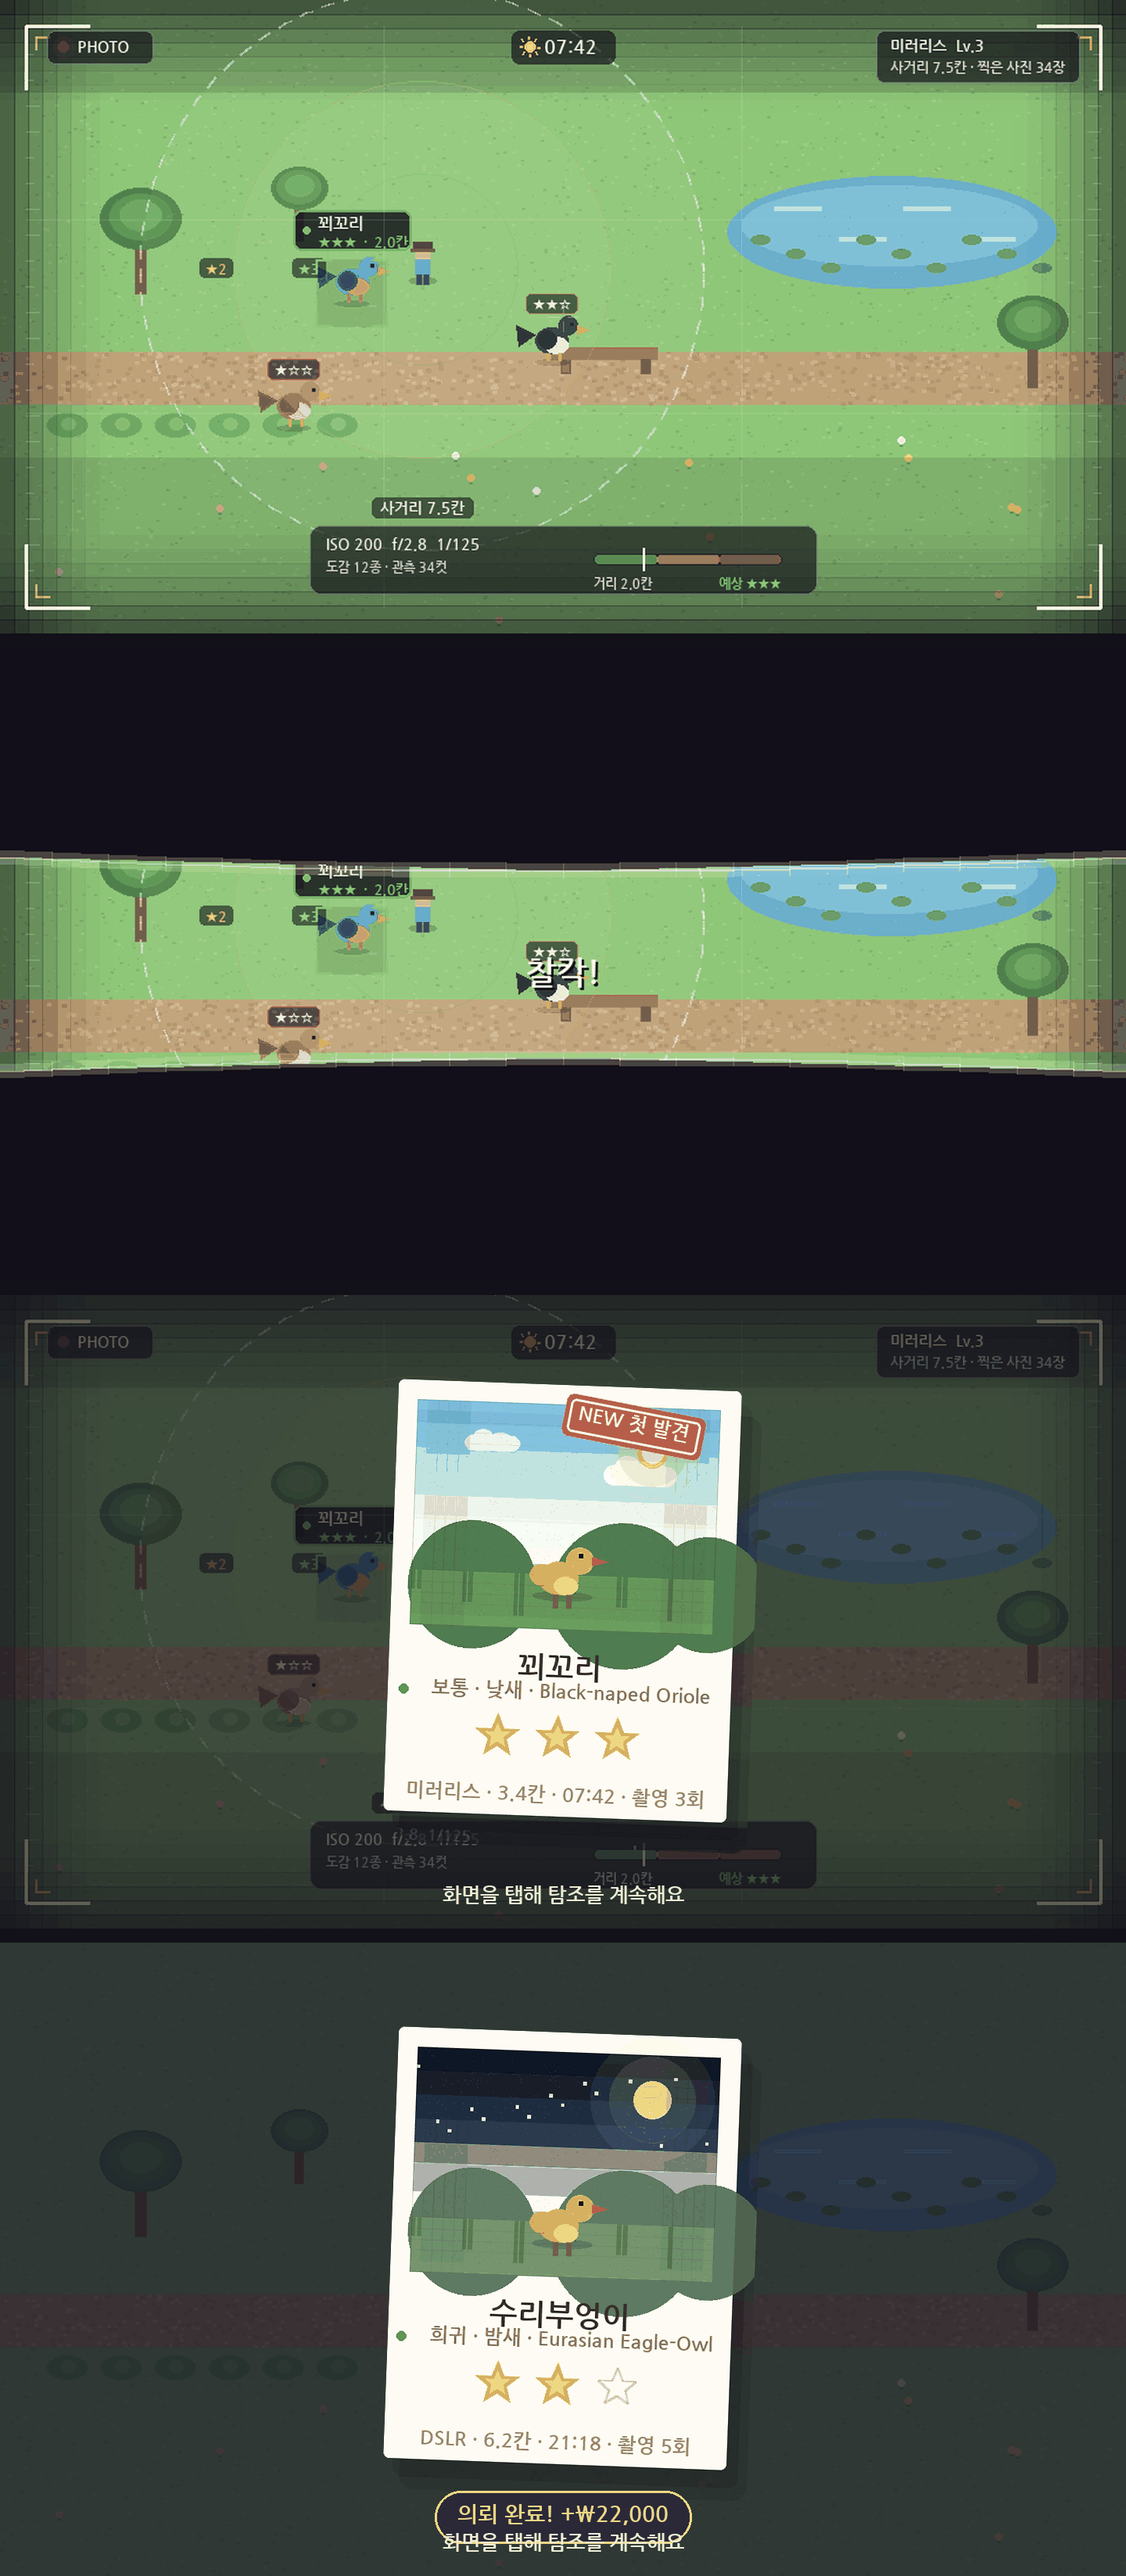
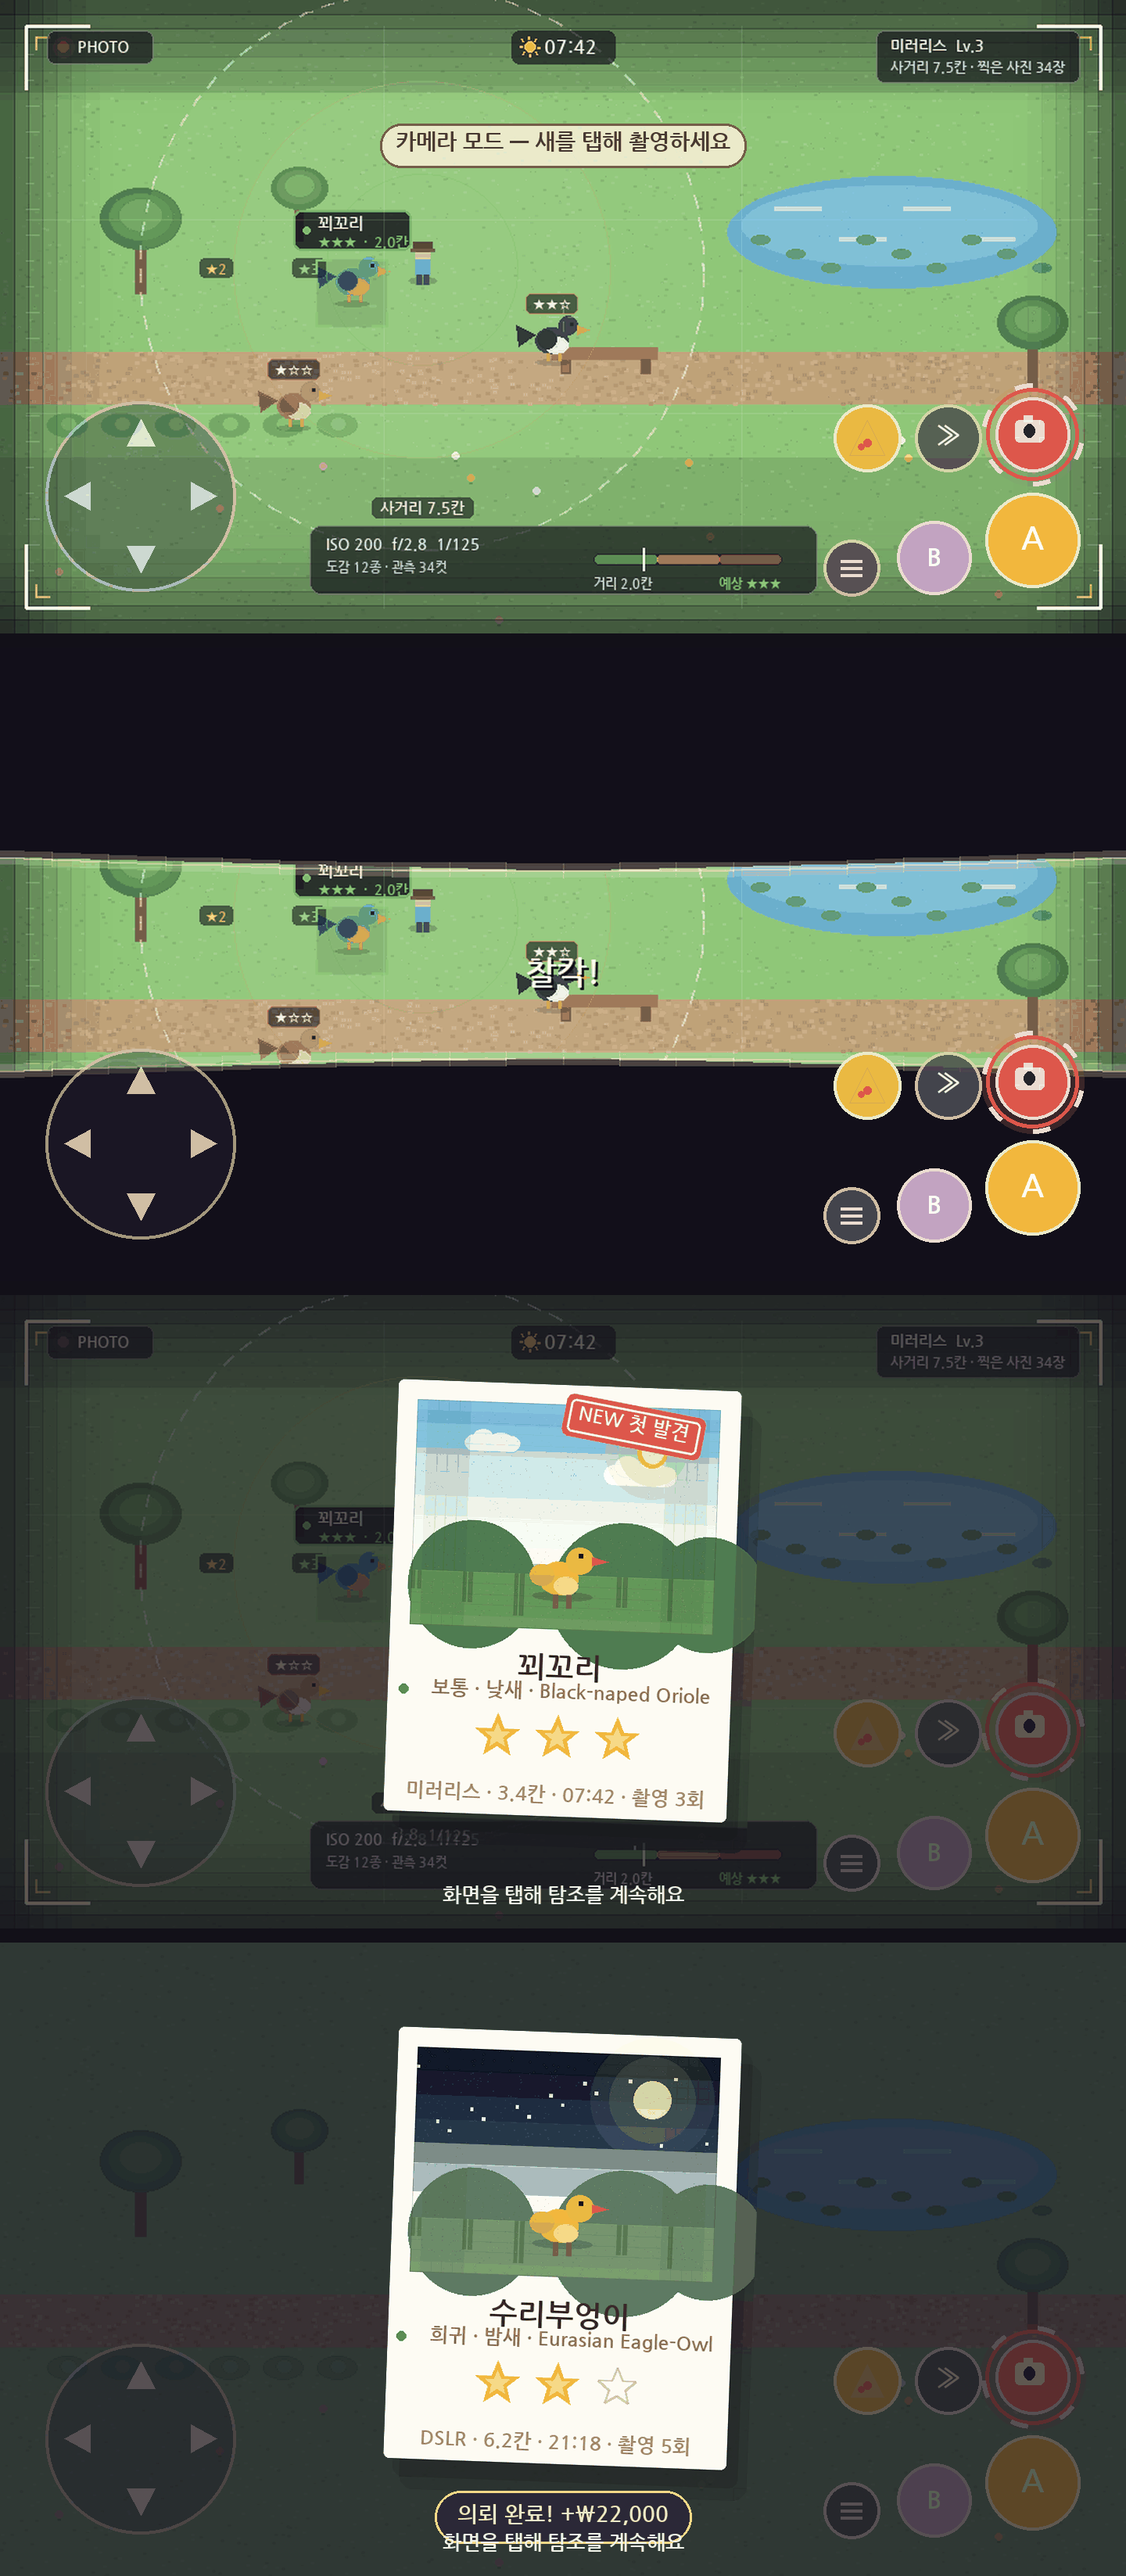
polish(탐조): 카메라 버튼 붉은 펄스 링 + 회전 아크 복원, 프리뷰에 HUD 컨트롤 반영
- Hud.drawControls: 카메라 모드일 때 촬영 버튼에 은은한 붉은 글로우 + 회전하는 점선 아크
- tools/preview_viewfinder.py: 실제 HUD(D패드/A·B/달리기/간식/메뉴/카메라)와 토스트까지
  같은 dp 좌표로 렌더 → docs/viewfinder_preview.png 갱신
- 프리뷰 이미지 256색 양자화로 용량 1.3MB → 0.4MB

diff --git a/app/src/main/java/com/pizzaandbird/game/Hud.kt b/app/src/main/java/com/pizzaandbird/game/Hud.kt
@@ -345,6 +345,26 @@ class Hud(private val game: Game) {
         val ch = cam.height * (dp(20f) / 16f)
         c.drawBitmap(cam, null, RectF(camBCx - cw / 2, camBCy - ch / 2, camBCx + cw / 2, camBCy + ch / 2), game.assets.sprPaint)
 
+        // 카메라 모드: 촬영 중임을 알리는 붉은 펄스 링 + 회전하는 점선 아크
+        if (photoModeHint) {
+            val pulse = 0.5f + 0.5f * sin(game.time * 3.4f)
+            stroke.color = Color.argb(46, 226, 87, 76)
+            stroke.strokeWidth = dp(9f)
+            c.drawCircle(camBCx, camBCy, camBR + dp(5f) + dp(4f) * pulse, stroke)
+            stroke.color = Color.argb((165 + 70 * pulse).toInt().coerceIn(0, 255), 226, 87, 76)
+            stroke.strokeWidth = dp(2.6f)
+            c.drawCircle(camBCx, camBCy, camBR + dp(3f) + dp(3f) * pulse, stroke)
+
+            val arcR = camBR + dp(8f)
+            val arcRect = RectF(camBCx - arcR, camBCy - arcR, camBCx + arcR, camBCy + arcR)
+            linePaint.color = Color.argb(225, 255, 232, 220)
+            linePaint.strokeWidth = dp(3f)
+            val baseDeg = (game.time * 96f) % 360f
+            for (i in 0 until 6) {
+                c.drawArc(arcRect, baseDeg + i * 60f, 20f, false, linePaint)
+            }
+        }
+
         // 달리기 (») — 누르고 있으면 강조
         val running = game.input.isRun
         drawButton(

diff --git a/tools/preview_viewfinder.py b/tools/preview_viewfinder.py
@@ -147,6 +147,103 @@ def draw_player(d, cx, cy):
     d.rectangle([cx - 10, cy - 12, cx + 10, cy - 10], fill=(0x6B, 0x4A, 0x33))
 
 
+
+# ---------------------------------------------------------------------------
+# HUD 컨트롤 (Hud.kt 와 같은 dp 좌표) — 카메라 모드에선 스탯/미니맵은 숨겨진다
+# ---------------------------------------------------------------------------
+
+def draw_hud_controls(d, W, H, density, photo_mode=True, clock=2.6, toast=None, active=()):
+    dp = lambda v: v * density
+
+    # D패드
+    r = dp(54)
+    cx, cy = dp(26) + r, H - dp(24) - r
+    d.ellipse([cx - r, cy - r, cx + r, cy + r], fill=(40, 36, 54, 88))
+    d.ellipse([cx - r, cy - r, cx + r, cy + r], outline=(248, 239, 220, 150), width=max(1, int(dp(2))))
+    tri = dp(10)
+    inn = r * 0.62
+    for (dx, dy) in ((0, -1), (0, 1), (-1, 0), (1, 0)):
+        px, py = -dy, dx
+        pts = [(cx + dx * inn + dx * tri, cy + dy * inn + dy * tri),
+               (cx + dx * inn - dx * tri * 0.5 + px * tri * 0.8, cy + dy * inn - dy * tri * 0.5 + py * tri * 0.8),
+               (cx + dx * inn - dx * tri * 0.5 - px * tri * 0.8, cy + dy * inn - dy * tri * 0.5 - py * tri * 0.8)]
+        d.polygon(pts, fill=(248, 239, 220, 205))
+
+    a_r = dp(27)
+    a_cx, a_cy = W - dp(26) - a_r, H - dp(26) - a_r
+    b_r = dp(21)
+    b_cx, b_cy = a_cx - a_r - dp(8) - b_r, H - dp(22) - b_r
+    cam_r = dp(21)
+    cam_cx, cam_cy = a_cx, a_cy - a_r - dp(12) - cam_r
+    run_r = dp(19)
+    run_cx, run_cy = cam_cx - cam_r - dp(8) - run_r, cam_cy + dp(2)
+    eat_r = dp(19)
+    eat_cx, eat_cy = run_cx - run_r - dp(8) - eat_r, cam_cy + dp(2)
+    menu_r = dp(16)
+    menu_cx, menu_cy = b_cx - b_r - dp(10) - menu_r, b_cy + dp(6)
+
+    def circle_button(cx, cy, rr, col, outline_a=190):
+        d.ellipse([cx - rr, cy - rr, cx + rr, cy + rr], fill=col)
+        d.ellipse([cx - rr, cy - rr, cx + rr, cy + rr], outline=(248, 239, 220, outline_a), width=max(1, int(dp(2))))
+
+    # 카메라 (촬영 모드에선 붉게 + 펄스 링)
+    if photo_mode:
+        pulse = 0.5 + 0.5 * math.sin(clock * 3.4)
+        pr = cam_r + dp(5) + dp(4) * pulse
+        d.ellipse([cam_cx - pr, cam_cy - pr, cam_cx + pr, cam_cy + pr], outline=(226, 87, 76, 46), width=max(1, int(dp(9))))
+        p2 = cam_r + dp(3) + dp(3) * pulse
+        d.ellipse([cam_cx - p2, cam_cy - p2, cam_cx + p2, cam_cy + p2], outline=(226, 87, 76, 210), width=max(1, int(dp(2.6))))
+        arc_r = cam_r + dp(8)
+        for i in range(6):
+            base = (clock * 96) % 360 + i * 60
+            d.arc([cam_cx - arc_r, cam_cy - arc_r, cam_cx + arc_r, cam_cy + arc_r], base, base + 20,
+                  fill=(255, 232, 220, 225), width=max(1, int(dp(3))))
+        circle_button(cam_cx, cam_cy, cam_r, (226, 87, 76), 200)
+    else:
+        circle_button(cam_cx, cam_cy, cam_r, (74, 74, 88, 220))
+
+    icon_camera(d, cam_cx - dp(10), cam_cy - dp(8.5), dp(20) / 16, (248, 239, 220, 240))
+    circle_button(a_cx, a_cy, a_r, (242, 182, 60) if "A" not in active else (217, 155, 38))
+    circle_button(b_cx, b_cy, b_r, (195, 163, 232) if "B" not in active else (159, 127, 200))
+    circle_button(run_cx, run_cy, run_r, (74, 74, 88, 220))
+    circle_button(eat_cx, eat_cy, eat_r, (242, 182, 60, 235) if "EAT" not in active else (217, 155, 38, 235))
+    circle_button(menu_cx, menu_cy, menu_r, (74, 74, 88, 220))
+
+    f = font(dp(18))
+    tw = measure("A", f, d)
+    d.text((a_cx - tw / 2, a_cy - dp(12)), "A", font=f, fill=(255, 252, 244))
+    f = font(dp(14))
+    tw = measure("B", f, d)
+    d.text((b_cx - tw / 2, b_cy - dp(9)), "B", font=f, fill=(255, 252, 244))
+    f = font(dp(17))
+    tw = measure("»", f, d)
+    d.text((run_cx - tw / 2, run_cy - dp(12)), "»", font=f, fill=(248, 239, 220, 230))
+
+    # 피자 아이콘 (간식 버튼)
+    ps = dp(20)
+    d.polygon([(eat_cx, eat_cy - ps / 2), (eat_cx - ps / 2, eat_cy + ps / 2), (eat_cx + ps / 2, eat_cy + ps / 2)],
+              fill=(247, 206, 91))
+    d.polygon([(eat_cx, eat_cy - ps / 2), (eat_cx - ps / 2, eat_cy + ps / 2), (eat_cx + ps / 2, eat_cy + ps / 2)],
+              outline=(203, 150, 60), width=1)
+    d.ellipse([eat_cx - ps * 0.11, eat_cy + ps * 0.02, eat_cx + ps * 0.11, eat_cy + ps * 0.24], fill=(196, 92, 74))
+    d.ellipse([eat_cx - ps * 0.26, eat_cy + ps * 0.16, eat_cx - ps * 0.08, eat_cy + ps * 0.34], fill=(196, 92, 74))
+    # 메뉴 (≡)
+    for i in (-1, 0, 1):
+        y = menu_cy + i * dp(4)
+        d.line([menu_cx - dp(6), y, menu_cx + dp(6), y], fill=(248, 239, 220, 220), width=max(1, int(dp(2.2))))
+
+    # 토스트 (카메라 모드에선 상단 뷰파인더 바를 피해 내려서)
+    if toast:
+        f = font(dp(12.5))
+        tw = measure(toast, f, d)
+        cxm = W / 2
+        ty = dp(20) + dp(62)
+        pad = dp(9)
+        d.rounded_rectangle([cxm - tw / 2 - pad, ty - dp(12), cxm + tw / 2 + pad, ty + dp(13)],
+                            radius=dp(12), fill=(248, 239, 220, 210), outline=(107, 79, 53, 230), width=max(1, int(dp(1.5))))
+        d.text((cxm - tw / 2, ty - dp(9)), toast, font=f, fill=(74, 55, 40))
+
+
 # ---------------------------------------------------------------------------
 # 뷰파인더 (Viewfinder.kt 와 같은 좌표)
 # ---------------------------------------------------------------------------
@@ -707,18 +804,26 @@ def main():
     draw_viewfinder(d, birds, player, cam, range_tiles, 3, "07:42", 34, False, 2.6,
                     "미러리스", 0, focus_dist)
     p1 = vf.resize((int(VW * SCALE), int(VH * SCALE)), Image.LANCZOS)
-    caption(p1, "① 카메라 모드 — 뷰파인더", "AF 박스 · 사거리 링 · 별점 예상 · 촬영 정보")
+    # HUD(실제 화면 좌표) 는 가상 캔버스 위에 그려지므로 확대 후 같은 비율로 얹는다
+    d1 = ImageDraw.Draw(p1, "RGBA")
+    draw_hud_controls(d1, p1.size[0], p1.size[1], density=2.25, photo_mode=True, clock=2.6,
+                      toast="카메라 모드 — 새를 탭해 촬영하세요")
+    caption(p1, "① 카메라 모드 — 뷰파인더", "AF 박스 · 사거리 링 · 별점 예상 · 촬영 정보 (스탯/미니맵은 숨김)")
 
     # ---- 2) 셔터 순간 ----
     p2 = vf.copy()
     d2 = ImageDraw.Draw(p2, "RGBA")
     draw_shutter(d2, 0.66, 0.95)
     p2 = p2.resize((int(VW * SCALE), int(VH * SCALE)), Image.LANCZOS)
+    d2 = ImageDraw.Draw(p2, "RGBA")
+    draw_hud_controls(d2, p2.size[0], p2.size[1], density=2.25, photo_mode=True, clock=2.6)
     caption(p2, "② 촬영 순간", "셔터 블레이드가 닫히며 '찰칵!'")
 
     # ---- 3) 촬영 결과 ----
     W, H = int(VW * SCALE), int(VH * SCALE)
     p3 = vf.resize((W, H), Image.LANCZOS)
+    d3 = ImageDraw.Draw(p3, "RGBA")
+    draw_hud_controls(d3, W, H, density=2.25, photo_mode=True, clock=6.0)
     draw_result(p3, W, H, density=2.25, quest=None)
     caption(p3, "③ 촬영 결과", "폴라로이드 인화 · 별점 · 첫 발견 스티커")
 
@@ -727,6 +832,8 @@ def main():
     draw_world(dn)
     dn.rectangle([0, 0, VW, VH], fill=(24, 28, 66, 96))   # 실제 게임 밤 틴트와 동일
     p4 = vfn.resize((W, H), Image.LANCZOS)
+    d4 = ImageDraw.Draw(p4, "RGBA")
+    draw_hud_controls(d4, W, H, density=2.25, photo_mode=True, clock=6.0)
     draw_result(p4, W, H, density=2.25, def_name="수리부엉이", english="Eurasian Eagle-Owl",
                 tier="희귀", active="밤새", stars=2, is_new=False, count=5, dist=6.2,
                 time_txt="21:18", camera_txt="DSLR", night=True, habitat="mountain",
